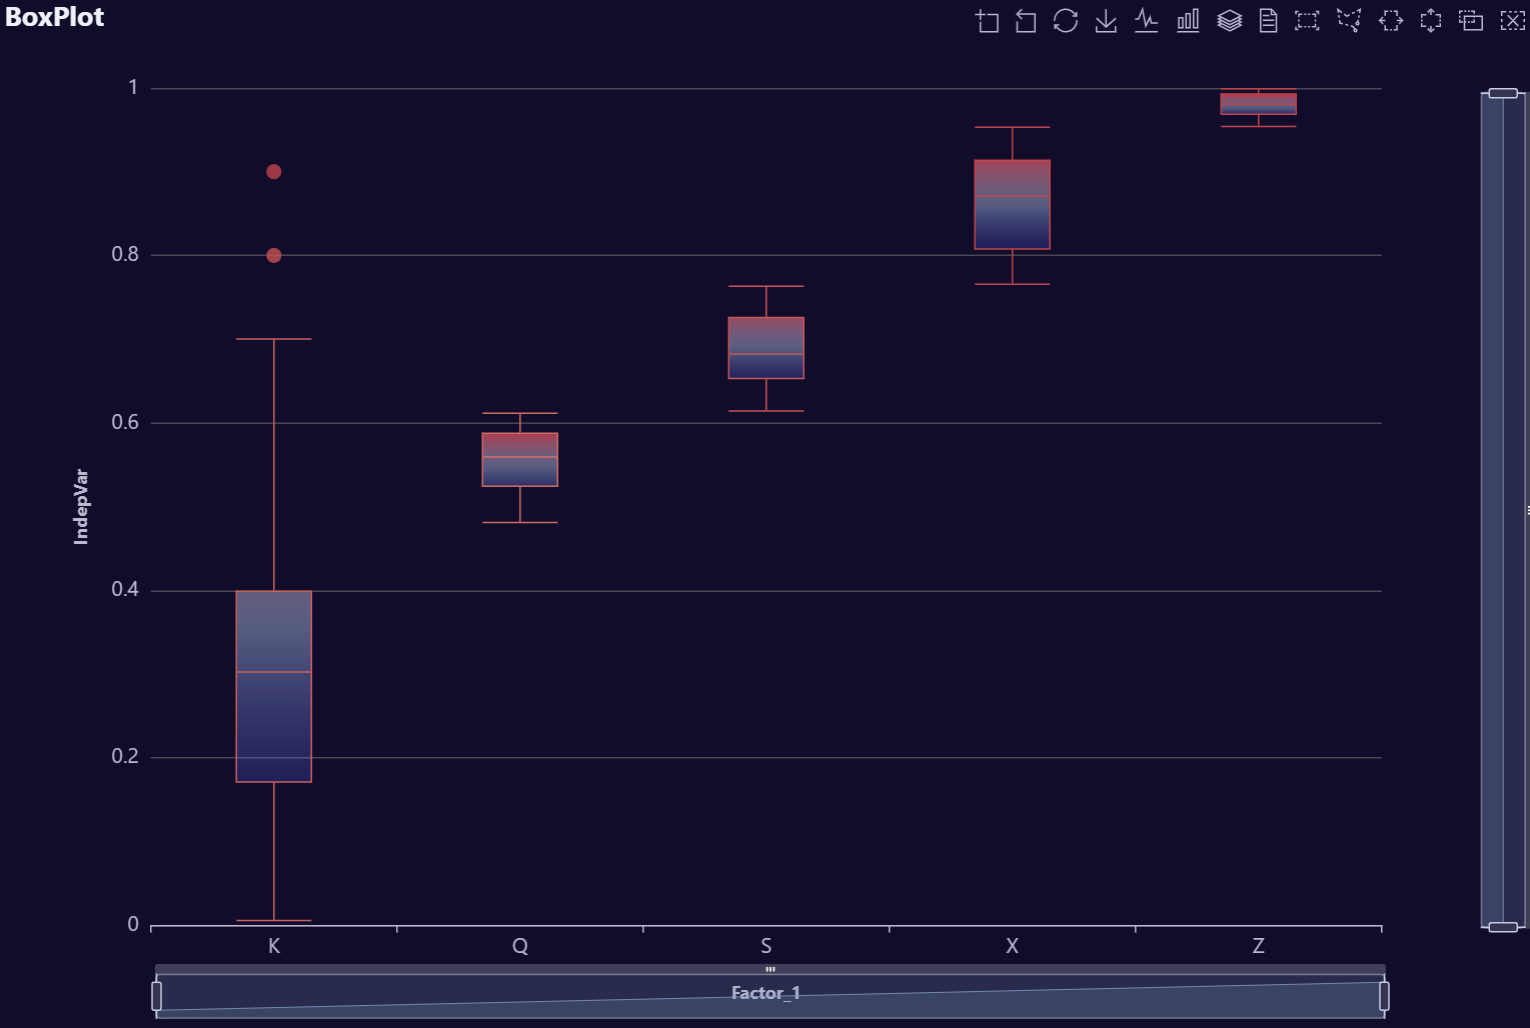
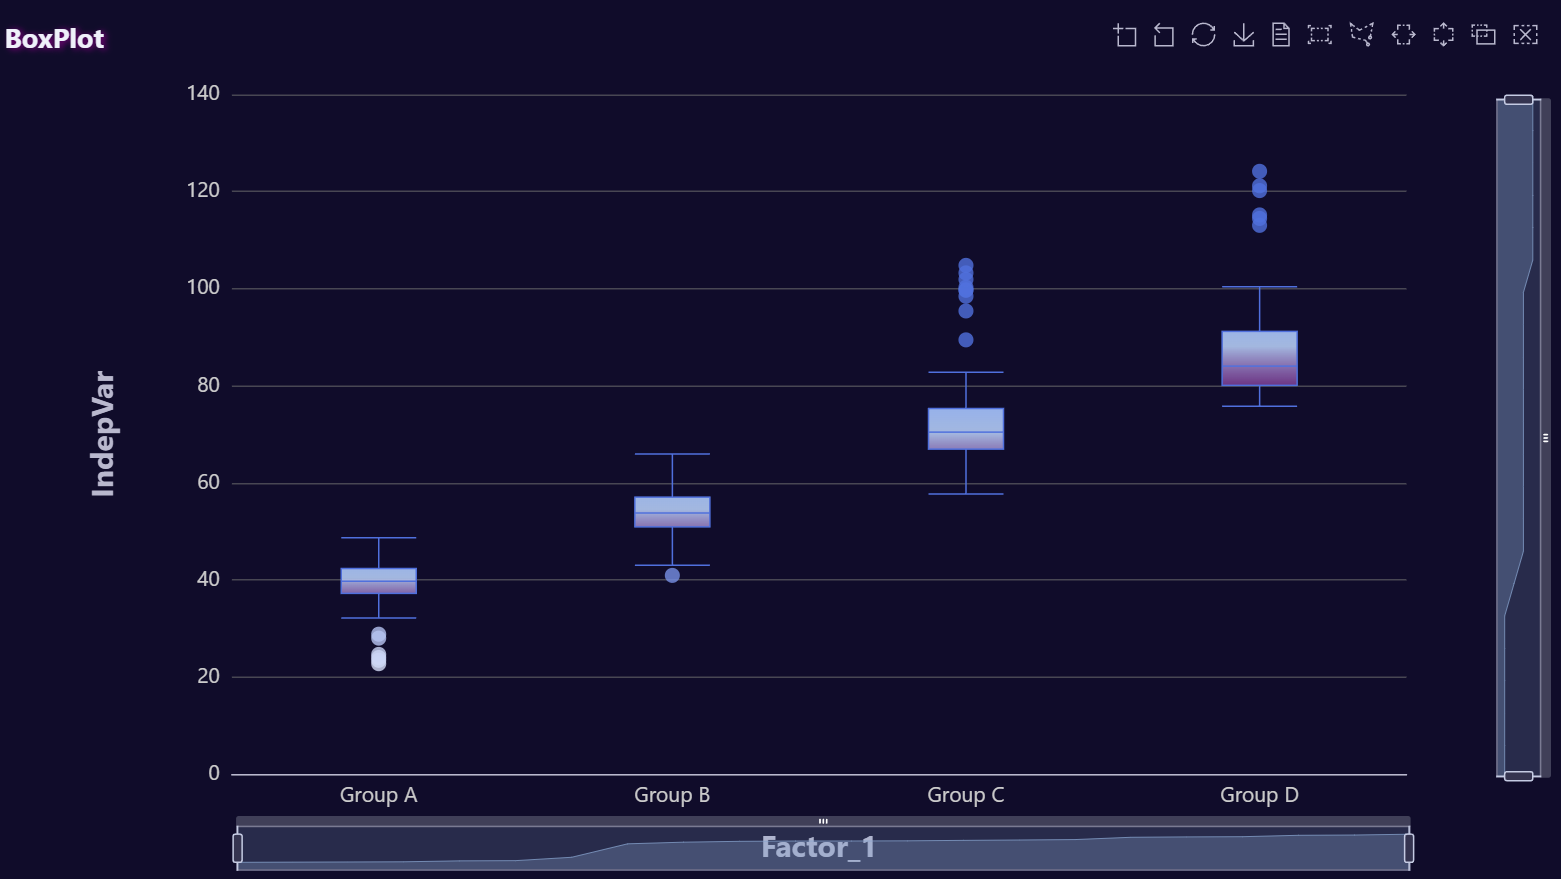
Update README

diff --git a/README.md b/README.md
@@ -309,22 +309,66 @@ AutoPlots::display_plots_grid(
 <details><summary>Box Plot Examples</summary>
 
 ```r
-# Create fake data
-data <- AutoPlots::FakeDataGenerator(N = 1000)
-data[1, Independent_Variable8 := 0.6]
-data[2, Independent_Variable8 := 0.7]
-data[3, Independent_Variable8 := 0.8]
-data[4, Independent_Variable8 := 0.9]
+# Create boxplot demo data with intentional outliers
+set.seed(123)
+n_per_group <- 60
 
-# Build plot
+data <- data.table::data.table(
+  Factor_1 = factor(rep(c("Group A", "Group B", "Group C", "Group D"), each = n_per_group))
+)
+
+# Base distributions
+data[, Independent_Variable8 := c(
+  rnorm(n_per_group, mean = 40, sd = 4),
+  rnorm(n_per_group, mean = 55, sd = 5),
+  rnorm(n_per_group, mean = 70, sd = 6),
+  rnorm(n_per_group, mean = 85, sd = 7)
+)]
+
+# Add controlled outliers per group
+outliers <- data.table::data.table(
+  Factor_1 = factor(c(
+    rep("Group A", 6),
+    rep("Group B", 7),
+    rep("Group C", 8),
+    rep("Group D", 6)
+  ), levels = levels(data$Factor_1)),
+  Independent_Variable8 = c(
+    rnorm(6, mean = 25, sd = 2),   # A: low outliers
+    rnorm(7, mean = 45, sd = 3),   # B: low-ish outliers
+    rnorm(8, mean = 100, sd = 3),  # C: high outliers
+    rnorm(6, mean = 115, sd = 4)   # D: high outliers
+  )
+)
+
+data <- rbind(data, outliers)
+
+# Safety: no negatives
+data[Independent_Variable8 < 0, Independent_Variable8 := 0]
+
+# Final box plot
 AutoPlots::Box(
   dt = data,
   XVar = "Factor_1",
   YVar = "Independent_Variable8",
   yAxis.title = "IndepVar",
-  itemStyle.color = c("red","#BDD5FF","blue"),
-  itemStyle.opacity = c(0.9,0.4,0.05),
-  legend.show = FALSE)
+  itemStyle.color = c("#80AAFF", "#BDD5FF", "#8B008B"),
+  itemStyle.opacity = c(0.98, 0.85, 0.55),
+  legend.show = FALSE,
+  tooltip.backgroundColor = "#80AAFFDD",
+  tooltip.textStyle.color = "black",
+  yAxis.nameTextStyle.fontSize = 20,
+  yAxis.nameTextStyle.padding = 60,
+  yAxis.axisLabel.color = "#CCCCCC",
+  xAxis.nameTextStyle.fontSize = 20,
+  xAxis.axisLabel.color = "#CCCCCC",
+  xAxis.axisLabel.fontSize = 14,
+  title.textStyle.textShadowColor = "purple",
+  title.textStyle.textShadowBlur = 4,
+  title.textStyle.textShadowOffsetX = 2,
+  title.textStyle.textShadowOffsetY = 1
+)
+
 ```
 
 <br>
